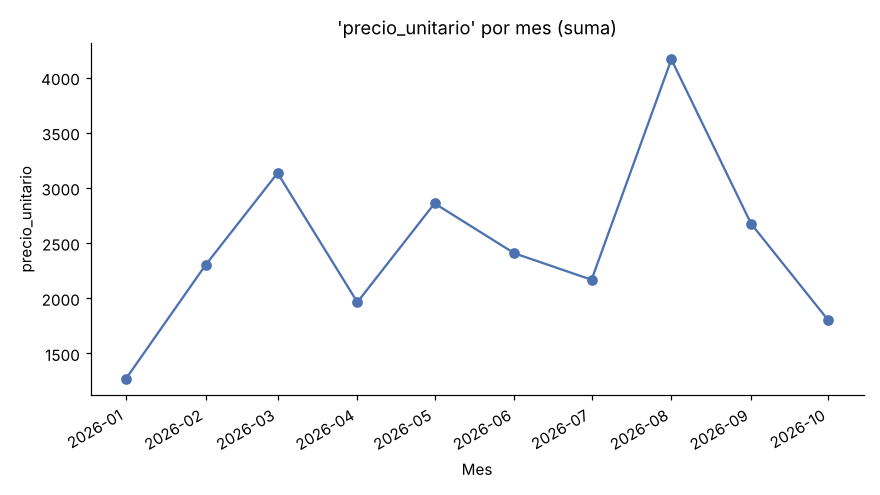
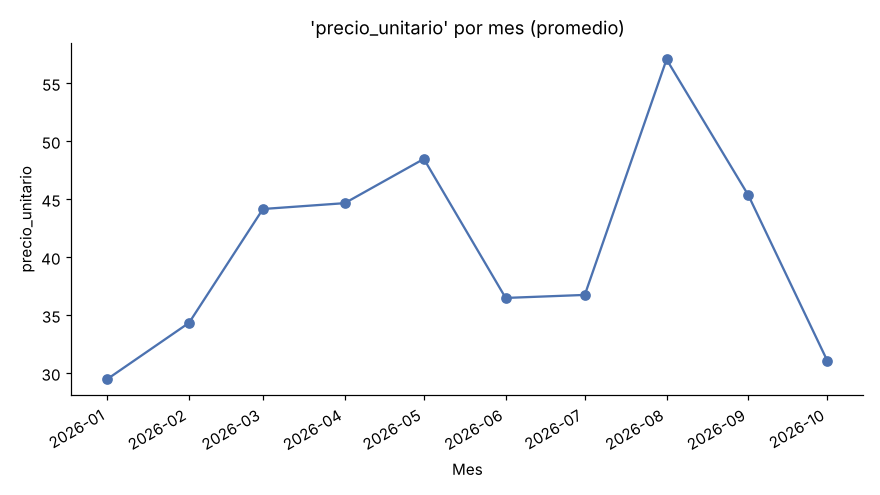
Mejorar perfil y promediar columnas tipo precio en la gráfica mensual
- README del perfil: sección del analizador con gráficas de ejemplo y
  contacto por GitHub en lugar del correo de ejemplo.
- Analizador: la gráfica por mes promedia columnas como precio_unitario
  en vez de sumarlas (configurable en PALABRAS_PARA_PROMEDIAR).

Claude-Session: https://claude.ai/code/session_01TeeeSHTqKq1SPsDLpJ2YXt

diff --git a/analisis_datos/herramientas/graficar.py b/analisis_datos/herramientas/graficar.py
@@ -5,7 +5,7 @@ Crea las gráficas como imágenes PNG. Cada función crea un tipo de gráfica:
 
     histogramas      -> cómo se reparten los valores de cada columna numérica
     barras           -> los valores más comunes de cada columna de texto
-    linea_de_tiempo  -> cómo cambian los números mes a mes
+    linea_de_tiempo  -> cómo cambian los números mes a mes (suma o promedio)
     mapa_correlacion -> qué columnas numéricas se mueven juntas
 """
 
@@ -62,16 +62,25 @@ def linea_de_tiempo(tabla, fechas, numeros, carpeta):
         return []
     col_fecha = fechas[0]
     resultado = []
-    por_mes = tabla.set_index(col_fecha)[numeros].resample("MS").sum()
-    if len(por_mes) < 2:
+    meses = tabla.set_index(col_fecha)[numeros].resample("MS")
+    if meses.ngroups < 2:
         return []
     for col in numeros[: config.MAX_GRAFICAS_POR_TIPO]:
+        promediar = _se_promedia(col)
+        por_mes = meses[col].mean() if promediar else meses[col].sum()
+        calculo = "promedio" if promediar else "suma"
         fig, ax = plt.subplots()
-        ax.plot(por_mes.index, por_mes[col], marker="o", color=config.COLOR_PRINCIPAL)
-        ax.set(title=f"'{col}' por mes (suma)", xlabel="Mes", ylabel=col)
+        ax.plot(por_mes.index, por_mes.values, marker="o", color=config.COLOR_PRINCIPAL)
+        ax.set(title=f"'{col}' por mes ({calculo})", xlabel="Mes", ylabel=col)
         fig.autofmt_xdate()
         resultado.append(_guardar(fig, carpeta, f"tiempo_{col}", f"{col} a lo largo del tiempo"))
     return resultado
+
+
+def _se_promedia(columna):
+    """True si en esta columna sumar no tiene sentido (precios, edades, %...)."""
+    nombre = columna.lower()
+    return any(palabra in nombre for palabra in config.PALABRAS_PARA_PROMEDIAR)
 
 
 def mapa_correlacion(tabla, numeros, carpeta):

diff --git a/analisis_datos/config.py b/analisis_datos/config.py
@@ -39,6 +39,14 @@ MAX_GRAFICAS_POR_TIPO = 6
 # (por ejemplo, nombres o IDs, que no aportan en una gráfica de barras)
 MAX_CATEGORIAS_PARA_GRAFICAR = 30
 
+# En la gráfica "por mes" las columnas se SUMAN (ventas, piezas, gastos...).
+# Pero hay columnas donde sumar no tiene sentido (un precio, una edad, un %).
+# Si el nombre de la columna contiene alguna de estas palabras, se PROMEDIA.
+PALABRAS_PARA_PROMEDIAR = [
+    "precio", "promedio", "tasa", "porcentaje", "pct", "%",
+    "edad", "temperatura", "calificacion", "calificación", "puntaje", "rating",
+]
+
 # Colores de las gráficas
 COLOR_PRINCIPAL = "#4C72B0"
 COLOR_SECUNDARIO = "#DD8452"

diff --git a/README.md b/README.md
@@ -32,11 +32,24 @@
 
 ### 📂 Proyectos
 
-- 📊 [Analizador de datos](analisis_datos/) — le das un CSV o Excel y te regresa un reporte con hallazgos y gráficas.
+#### 📊 [Analizador de datos](analisis_datos/)
+
+Le das un archivo CSV o Excel y te regresa un reporte en español con los hallazgos más importantes, estadísticas y gráficas.
+
+- 🐍 Hecho con **Python**, **pandas** y **matplotlib**
+- 🧹 Limpia los datos solo: duplicados, celdas vacías, `"$1,200"` → `1200`, fechas en texto
+- 🔒 Tus datos reales nunca se suben a GitHub
+- 👉 [Ver un reporte de ejemplo](analisis_datos/resultados/ventas_ejemplo/REPORTE.md)
+
+<p align="center">
+  <img width="420" src="analisis_datos/resultados/ventas_ejemplo/graficas/tiempo_total.png" alt="Ventas por mes" />
+  <img width="420" src="analisis_datos/resultados/ventas_ejemplo/graficas/barras_categoria.png" alt="Categorías más vendidas" />
+</p>
 
 ### 📫 Contacto
 
-- 📧 Correo: tu-correo@ejemplo.com
+- 💬 Escríbeme abriendo un [issue en este repositorio](https://github.com/abelllllllllll/abelllllllllll/issues)
+- 🐙 GitHub: [@abelllllllllll](https://github.com/abelllllllllll)
 
 <p align="center">
   <img src="https://komarev.com/ghpvc/?username=abelllllllllll&color=blueviolet&label=Visitas+al+perfil" alt="Visitas al perfil" />

diff --git a/analisis_datos/CAMBIOS.md b/analisis_datos/CAMBIOS.md
@@ -5,6 +5,17 @@ Lo más nuevo va arriba.
 
 ---
 
+## 13/11/2026 — Gráfica por mes: sumar o promediar según la columna
+
+**Qué se hizo:** en la gráfica "por mes", las columnas como `precio_unitario`
+ahora se **promedian** en vez de sumarse. El título de cada gráfica dice si es "suma" o "promedio".
+Las palabras que activan el promedio están en `config.py` → `PALABRAS_PARA_PROMEDIAR`.
+
+**Por qué:** sumar precios de todo un mes da un número que no significa nada.
+El precio promedio del mes sí se entiende. Las ventas o piezas se siguen sumando.
+
+---
+
 ## 07/11/2026 — Privacidad de los datos
 
 **Qué se hizo:** los archivos en `datos/` y sus reportes en `resultados/` ya no se suben a GitHub.
@@ -26,5 +37,4 @@ Solo se suben los datos de ejemplo, que son inventados.
 
 **Pendiente / ideas para siguientes versiones:**
 - Probarlo con datos reales y ajustar según lo que haga falta.
-- La gráfica "por mes" suma todas las columnas numéricas; en columnas como
-  `precio_unitario` sumar no tiene mucho sentido. Ajustar cuando se usen datos reales.
+- ~~La gráfica "por mes" suma todas las columnas numéricas~~ ✅ Resuelto el 13/11/2026.

diff --git a/analisis_datos/README.md b/analisis_datos/README.md
@@ -101,6 +101,7 @@ La mayoría de cambios se hacen en **`config.py`**, por ejemplo:
 - `TOP_VALORES = 5` → cuántos valores comunes mostrar por columna.
 - `UMBRAL_CORRELACION = 0.5` → qué tan fuerte debe ser una relación para mencionarla.
 - `MAX_GRAFICAS_POR_TIPO = 6` → para que el reporte no sea demasiado largo.
+- `PALABRAS_PARA_PROMEDIAR` → columnas que en la gráfica "por mes" se promedian en vez de sumarse (precios, edades, %...).
 - `COLOR_PRINCIPAL` → el color de las gráficas.
 
 Cada cambio importante se anota en [CAMBIOS.md](CAMBIOS.md).

diff --git a/analisis_datos/resultados/ventas_ejemplo/REPORTE.md b/analisis_datos/resultados/ventas_ejemplo/REPORTE.md
@@ -1,5 +1,5 @@
 # 📊 Reporte de análisis: `ventas_ejemplo`
-_Generado el 07/11/2026 a las 12:29_
+_Generado el 13/11/2026 a las 11:43_
 
 ## 1. Lo más importante
 
